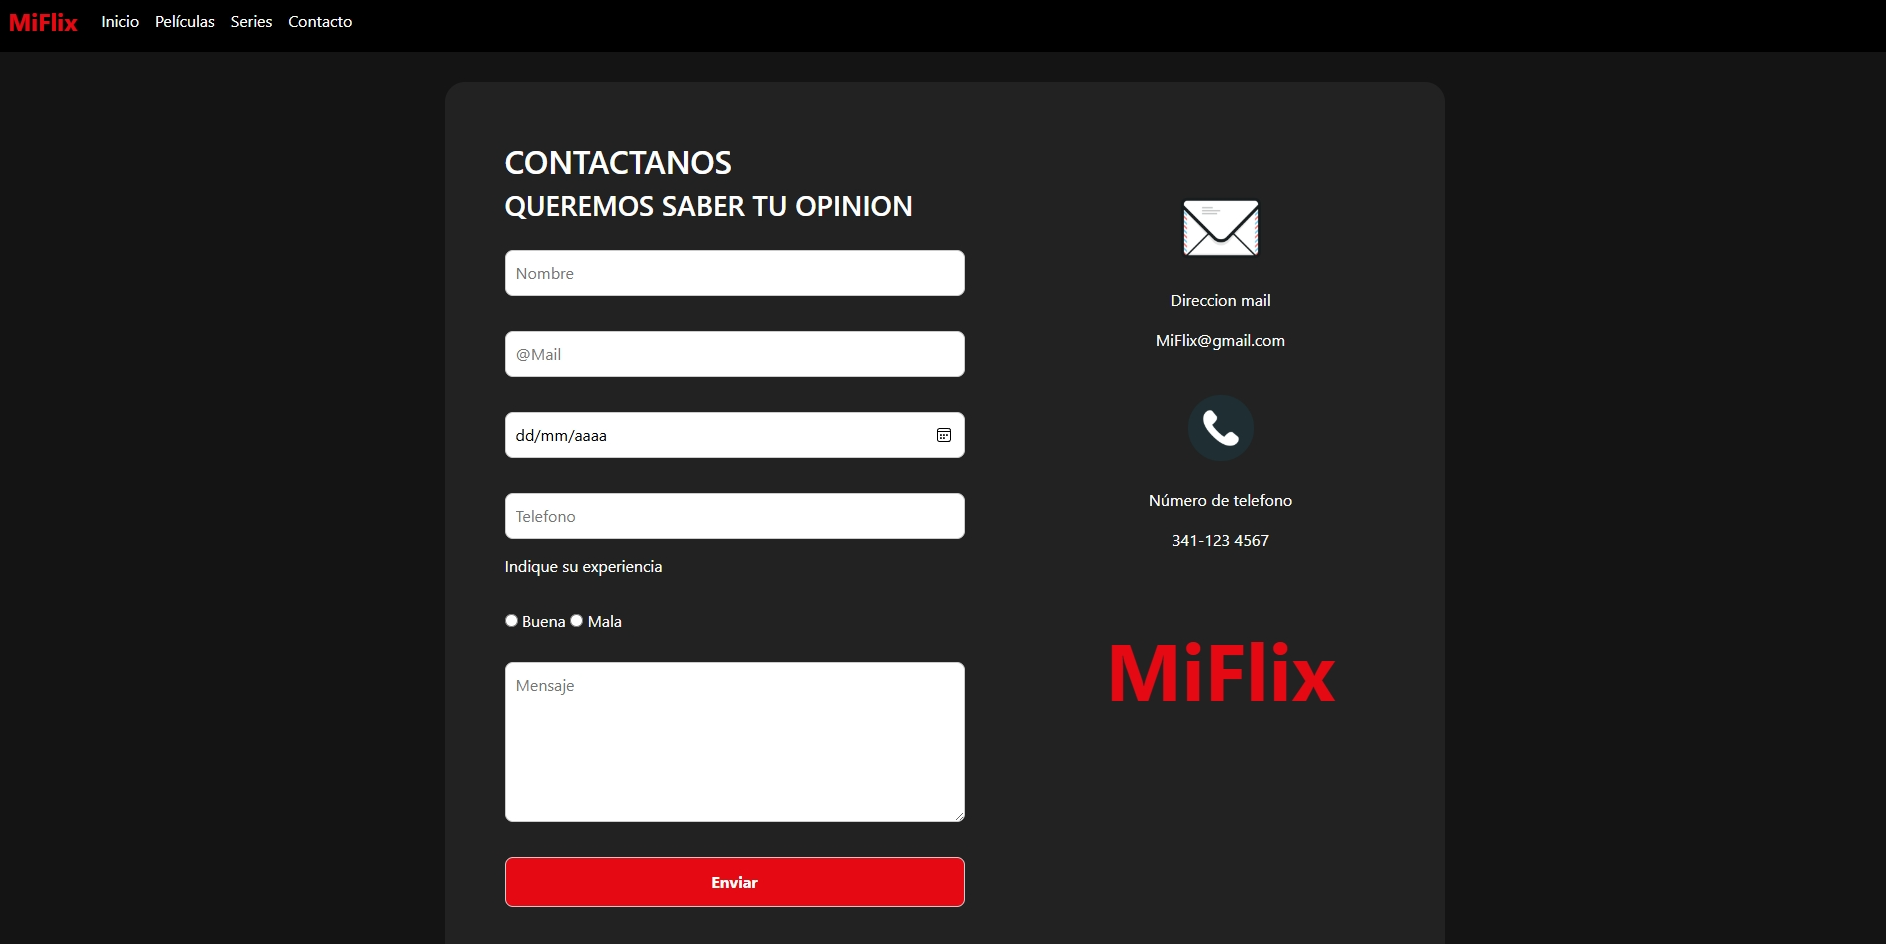
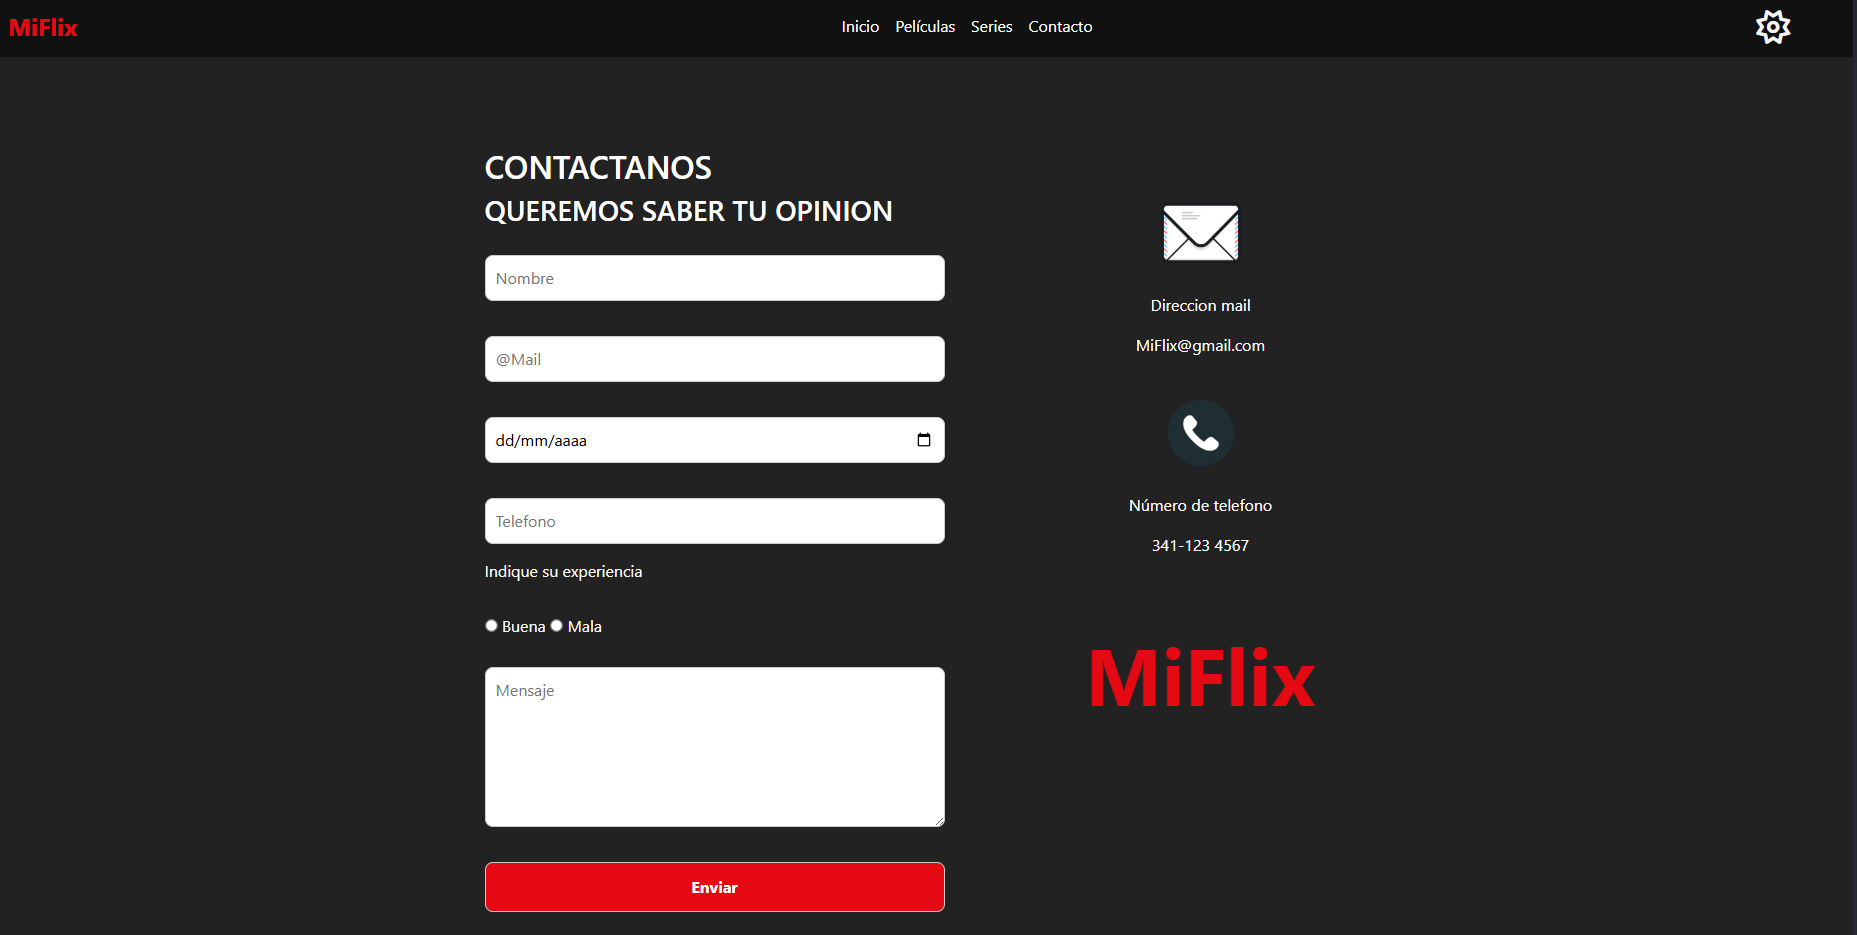
agrego modo claro/oscuro

diff --git a/css/styles.css b/css/styles.css
@@ -1,11 +1,49 @@
 /* BODY Y NAVBAR */
-body {
-  background-color: #141414;
+/*Subsección tema */
+.light{
+  background-color:#F4F4F2;
+  color: black;
+  transition: all 1.5s ease;
+}
+
+.dark{
+  background-color: #222;
+  color: white;
+  transition: all 1.5s ease;
+}
+
+#toggle{
+  display: none;
+}
+
+#label_toggle{
+  position: absolute;
+  top: 20px;
+  right: 250px;
+  font-size: 1em;
+  cursor: pointer;
+}
+
+.light .navbar,
+.light footer {
+  background-color: #524949; 
   color: white;
 }
 
-.navbar {
-  background-color: #000 !important;
+.light .navbar .nav-link ,
+.light footer a {
+  color: white !important;
+}
+
+.dark .navbar,
+.dark footer {
+  background-color: #222; 
+  color: white;
+}
+
+.dark .navbar .nav-link,
+.dark footer a {
+  color: #fff !important;
 }
 
 .nav-link {
@@ -324,6 +362,7 @@ footer a:hover {
   display: flex;
   justify-content: space-between;
   padding: 40px;
+  color: white;
 }
 
 .formulario {
@@ -436,6 +475,17 @@ footer a:hover {
   color: #e50914;
 }
 /*----------------------- diseño responsive de contactos-------------------------------- */
+/*--PC (>1200px)--*/
+@media (min-width: 1200px) {
+    #label_toggle{
+    position: absolute;
+    top: 7px;
+    font-size: 2em;
+    cursor: pointer;
+    color: whitesmoke;
+  }
+}
+
 
 /*--Laptop (≤1200px y ≥992px)--*/
 @media (max-width: 1200px) {
@@ -458,6 +508,14 @@ footer a:hover {
   .datoscontacto {
     width: 45%;
     margin-top: 5%;
+  }
+
+    #label_toggle{
+    position: absolute;
+    top: 7px;
+    font-size: 2em;
+    cursor: pointer;
+    color: whitesmoke;
   }
 }
 
@@ -489,6 +547,14 @@ footer a:hover {
     align-items: center;
     text-align: center;
     gap: 20px;
+  }
+
+    #label_toggle{
+    position: absolute;
+    top: 7px;
+    font-size: 2em;
+    cursor: pointer;
+    color: whitesmoke;
   }
 }
 
@@ -538,4 +604,17 @@ footer a:hover {
     width: 100%;
     align-items: center;
   }
+
+    #label_toggle{
+    position: absolute;
+    top: 7px;
+    font-size: 2em;
+    cursor: pointer;
+    color: whitesmoke;
+  }
 }
+
+@media (min-width:1200px) { #label_toggle { right: 60px; } }
+@media (max-width:1200px) { #label_toggle { right: 75px; } }
+@media (max-width:992px)  { #label_toggle { right: 150px; } }
+@media (max-width:480px)  { #label_toggle { right: 80px; } }

diff --git a/html/contacto.html b/html/contacto.html
@@ -9,12 +9,15 @@
       href="https://cdn.jsdelivr.net/npm/bootstrap@5.3.3/dist/css/bootstrap.min.css"
       rel="stylesheet"
     />
+        <link rel="stylesheet" href="https://cdnjs.cloudflare.com/ajax/libs/font-awesome/7.0.1/css/all.min.css" integrity="sha512-2SwdPD6INVrV/lHTZbO2nodKhrnDdJK9/kg2XD1r9uGqPo1cUbujc+IYdlYdEErWNu69gVcYgdxlmVmzTWnetw==" crossorigin="anonymous" referrerpolicy="no-referrer" />
     <link rel="stylesheet" href="/css/styles.css" />
   </head>
 
   <body>
     <header>
       <nav class="navbar navbar-expand-lg navbar-dark">
+      <label for="toggle" id="label_toggle"><i class="fa-regular fa-sun"></i></label>
+      <input type="checkbox" id="toggle">        
         <div class="container-fluid">
           <a class="navbar-brand" href="/index.html">MiFlix</a>
           <button
@@ -132,8 +135,9 @@
    <script src="https://cdn.jsdelivr.net/npm/bootstrap@5.3.3/dist/js/bootstrap.bundle.min.js"></script>
    <!-- JS propio -->
    <script src="/js/listado.js"></script>
+  <script src="/js/tema.js"></script> 
    <!-- JS contacto -->
-    <script src="/js/contacto.js"></script>
+    <script src="/js/contacto.js"></script> 
 </body>
 </html>
 

diff --git a/html/series.html b/html/series.html
@@ -9,12 +9,15 @@
       href="https://cdn.jsdelivr.net/npm/bootstrap@5.3.3/dist/css/bootstrap.min.css"
       rel="stylesheet"
     />
+        <link rel="stylesheet" href="https://cdnjs.cloudflare.com/ajax/libs/font-awesome/7.0.1/css/all.min.css" integrity="sha512-2SwdPD6INVrV/lHTZbO2nodKhrnDdJK9/kg2XD1r9uGqPo1cUbujc+IYdlYdEErWNu69gVcYgdxlmVmzTWnetw==" crossorigin="anonymous" referrerpolicy="no-referrer" />
     <link rel="stylesheet" href="/css/styles.css" />
   </head>
 
   <body>
     <header>
       <nav class="navbar navbar-expand-lg navbar-dark">
+      <label for="toggle" id="label_toggle"><i class="fa-regular fa-sun"></i></label>
+      <input type="checkbox" id="toggle">
         <div class="container-fluid">
           <a class="navbar-brand" href="/index.html">MiFlix</a>
           <button
@@ -171,5 +174,6 @@
     <script src="https://cdn.jsdelivr.net/npm/bootstrap@5.3.3/dist/js/bootstrap.bundle.min.js"></script>
     <!-- JS propio -->
     <script src="/js/listado.js"></script>
+    <script src="/js/tema.js"></script>
   </body>
 </html>

diff --git a/js/tema.js b/js/tema.js
@@ -1,0 +1,16 @@
+let toggle = document.getElementById(`toggle`);
+let label_toggle = document.getElementById(`label_toggle`);
+
+toggle.addEventListener(`change`, (event)=>{
+    let checked = event.target.checked;
+    document.body.classList.add(`dark`);
+    if(checked){
+        document.body.classList.add('dark');
+        document.body.classList.remove('light');
+        label_toggle.innerHTML = `<i class="fa-regular fa-sun"></i>`;
+    }else{
+        document.body.classList.add('light');
+        document.body.classList.remove('dark');
+        label_toggle.innerHTML = `<i class="fa-regular fa-moon"></i>`;
+    }
+});

diff --git a/README.md b/README.md
@@ -9,16 +9,16 @@ Este proyecto simula una plataforma de streaming, presentando una cuidada selecc
 ## Capturas de Pantalla
 
 **Página de Inicio**
-![](/assets/img/capturas/Inicio.png)
+![](/assets/img/capturas/Inicio.png) 
 
 **Catálogo de Películas**
-![](/assets/img/capturas/CatalogoPeliculas.png)
+![](/assets/img/capturas/CatalogoPeliculas.png) 
 
 **Catálogo de Series**
-![]()
+![](/assets/img/capturas/CatalogoSeries.png) 
 
 **Contacto**
-![](/assets/img/capturas/Contacto.png)
+![](/assets/img/capturas/Contacto.png) 
 
 ## Tecnologías Utilizadas
 
